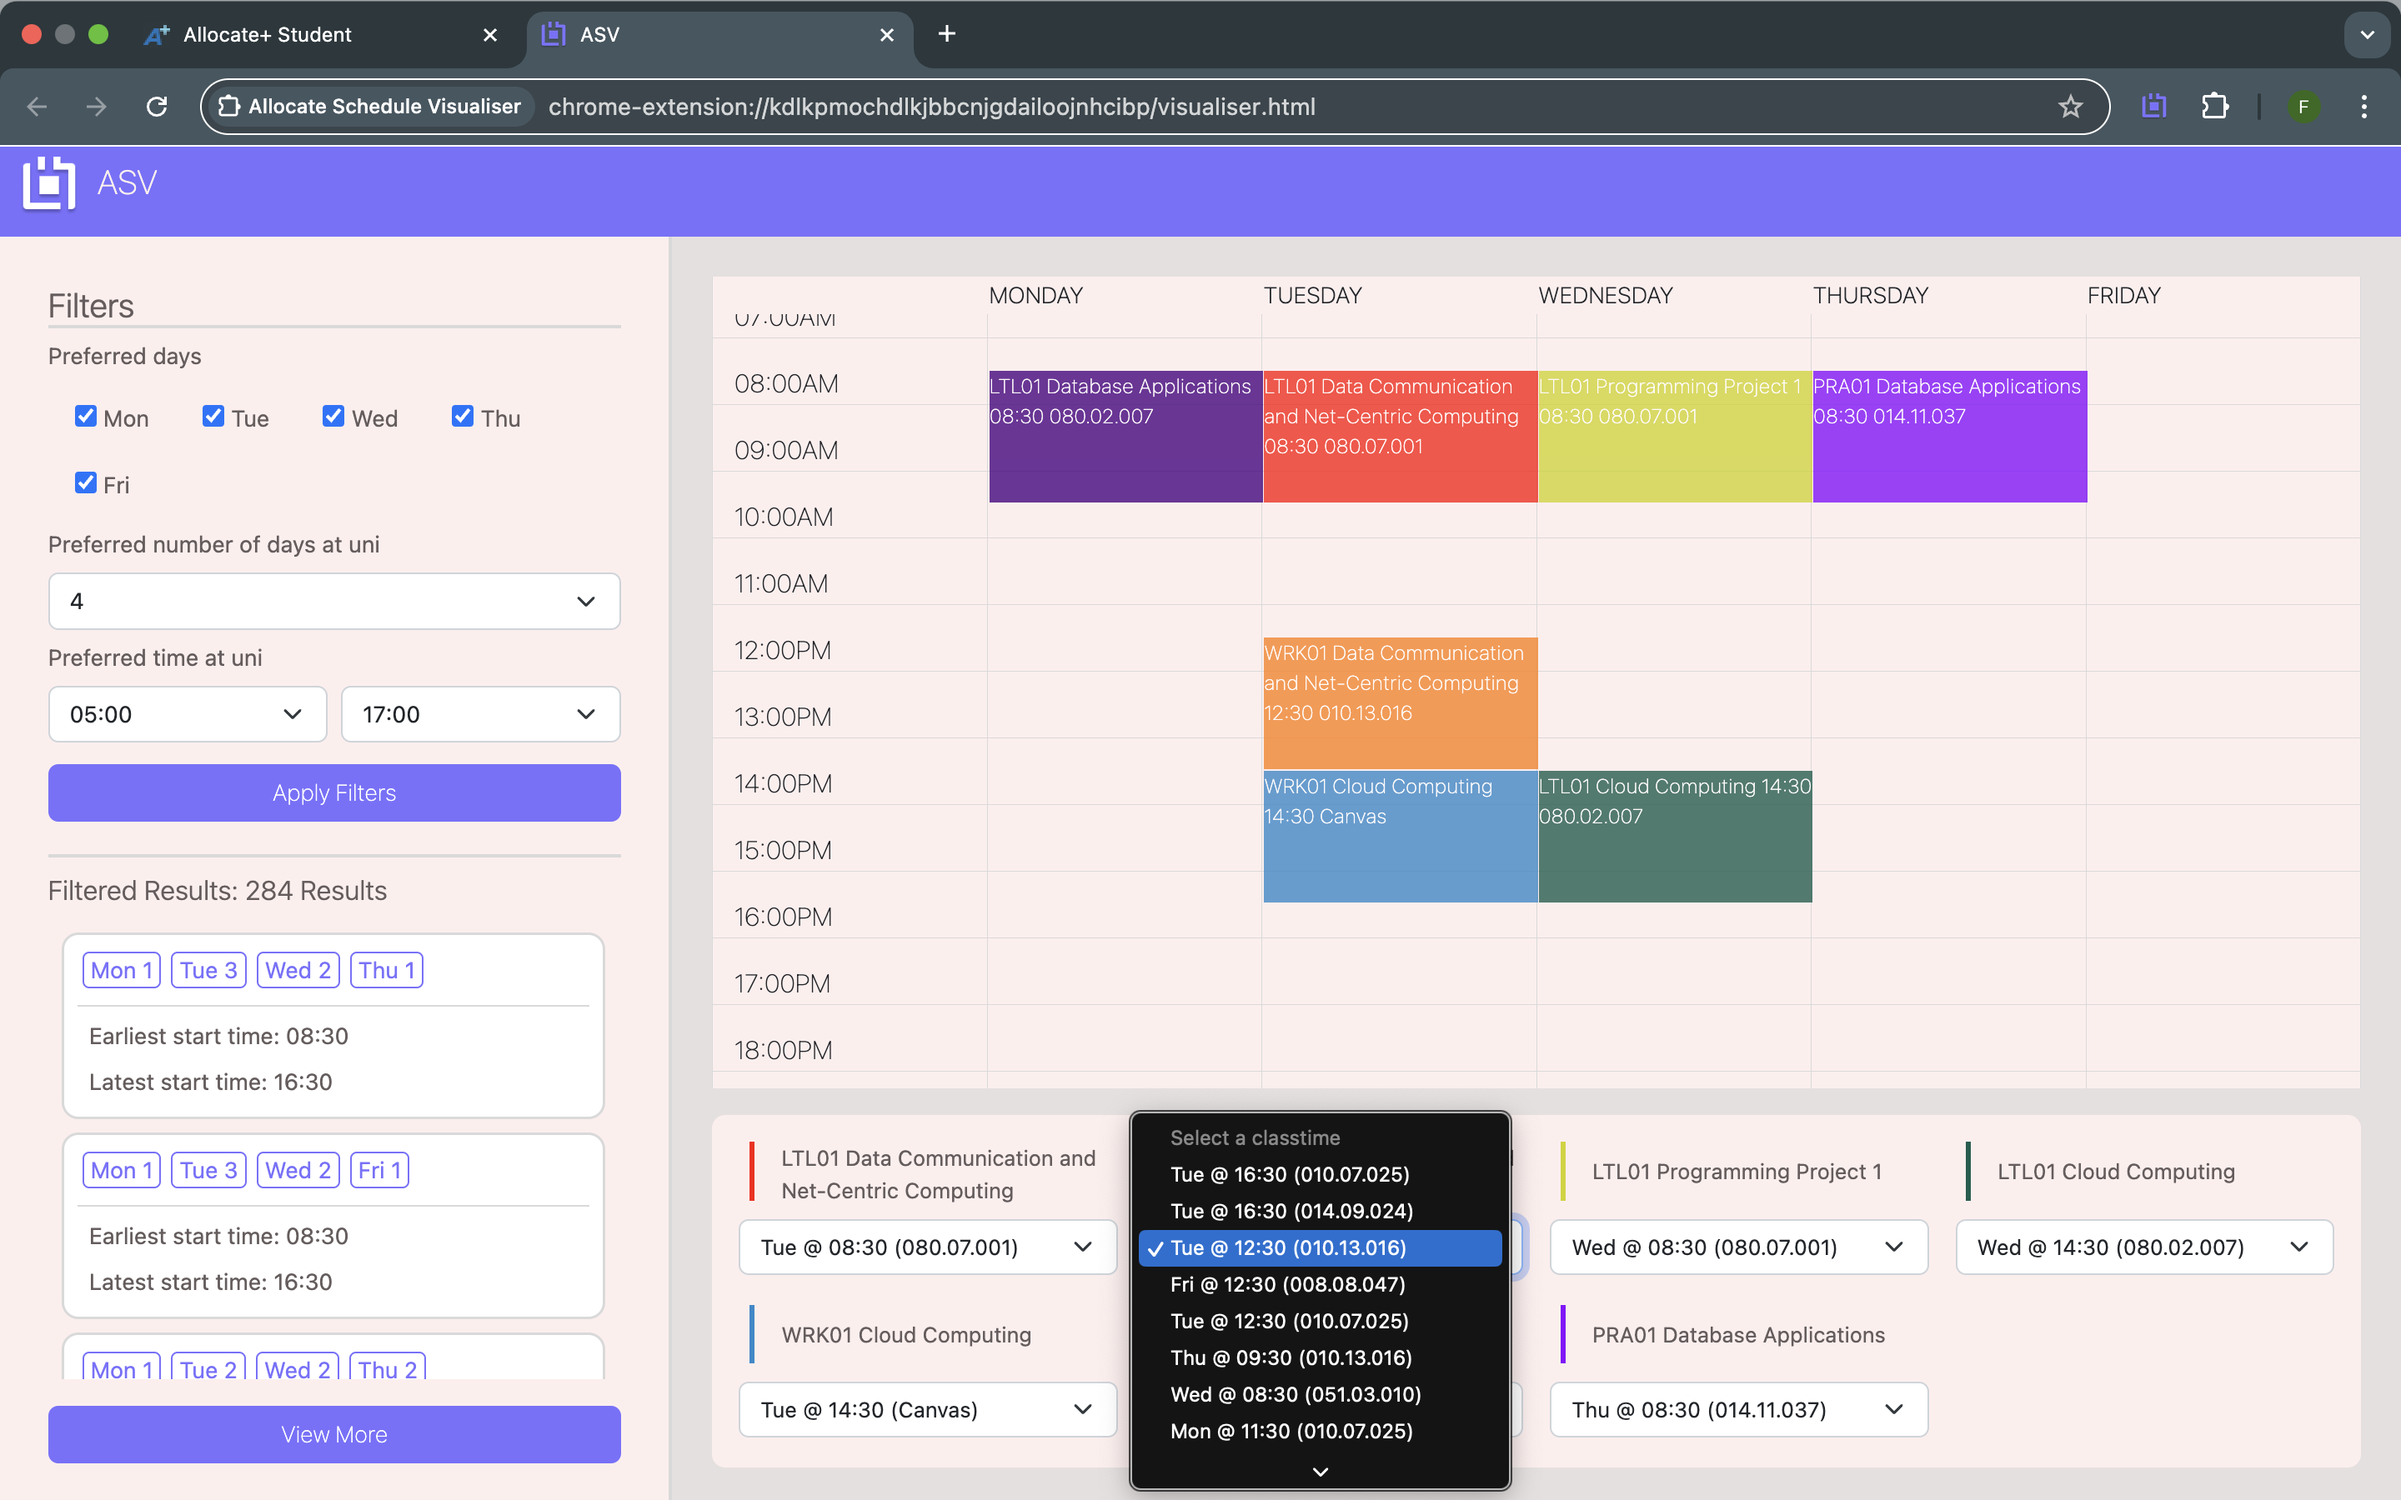
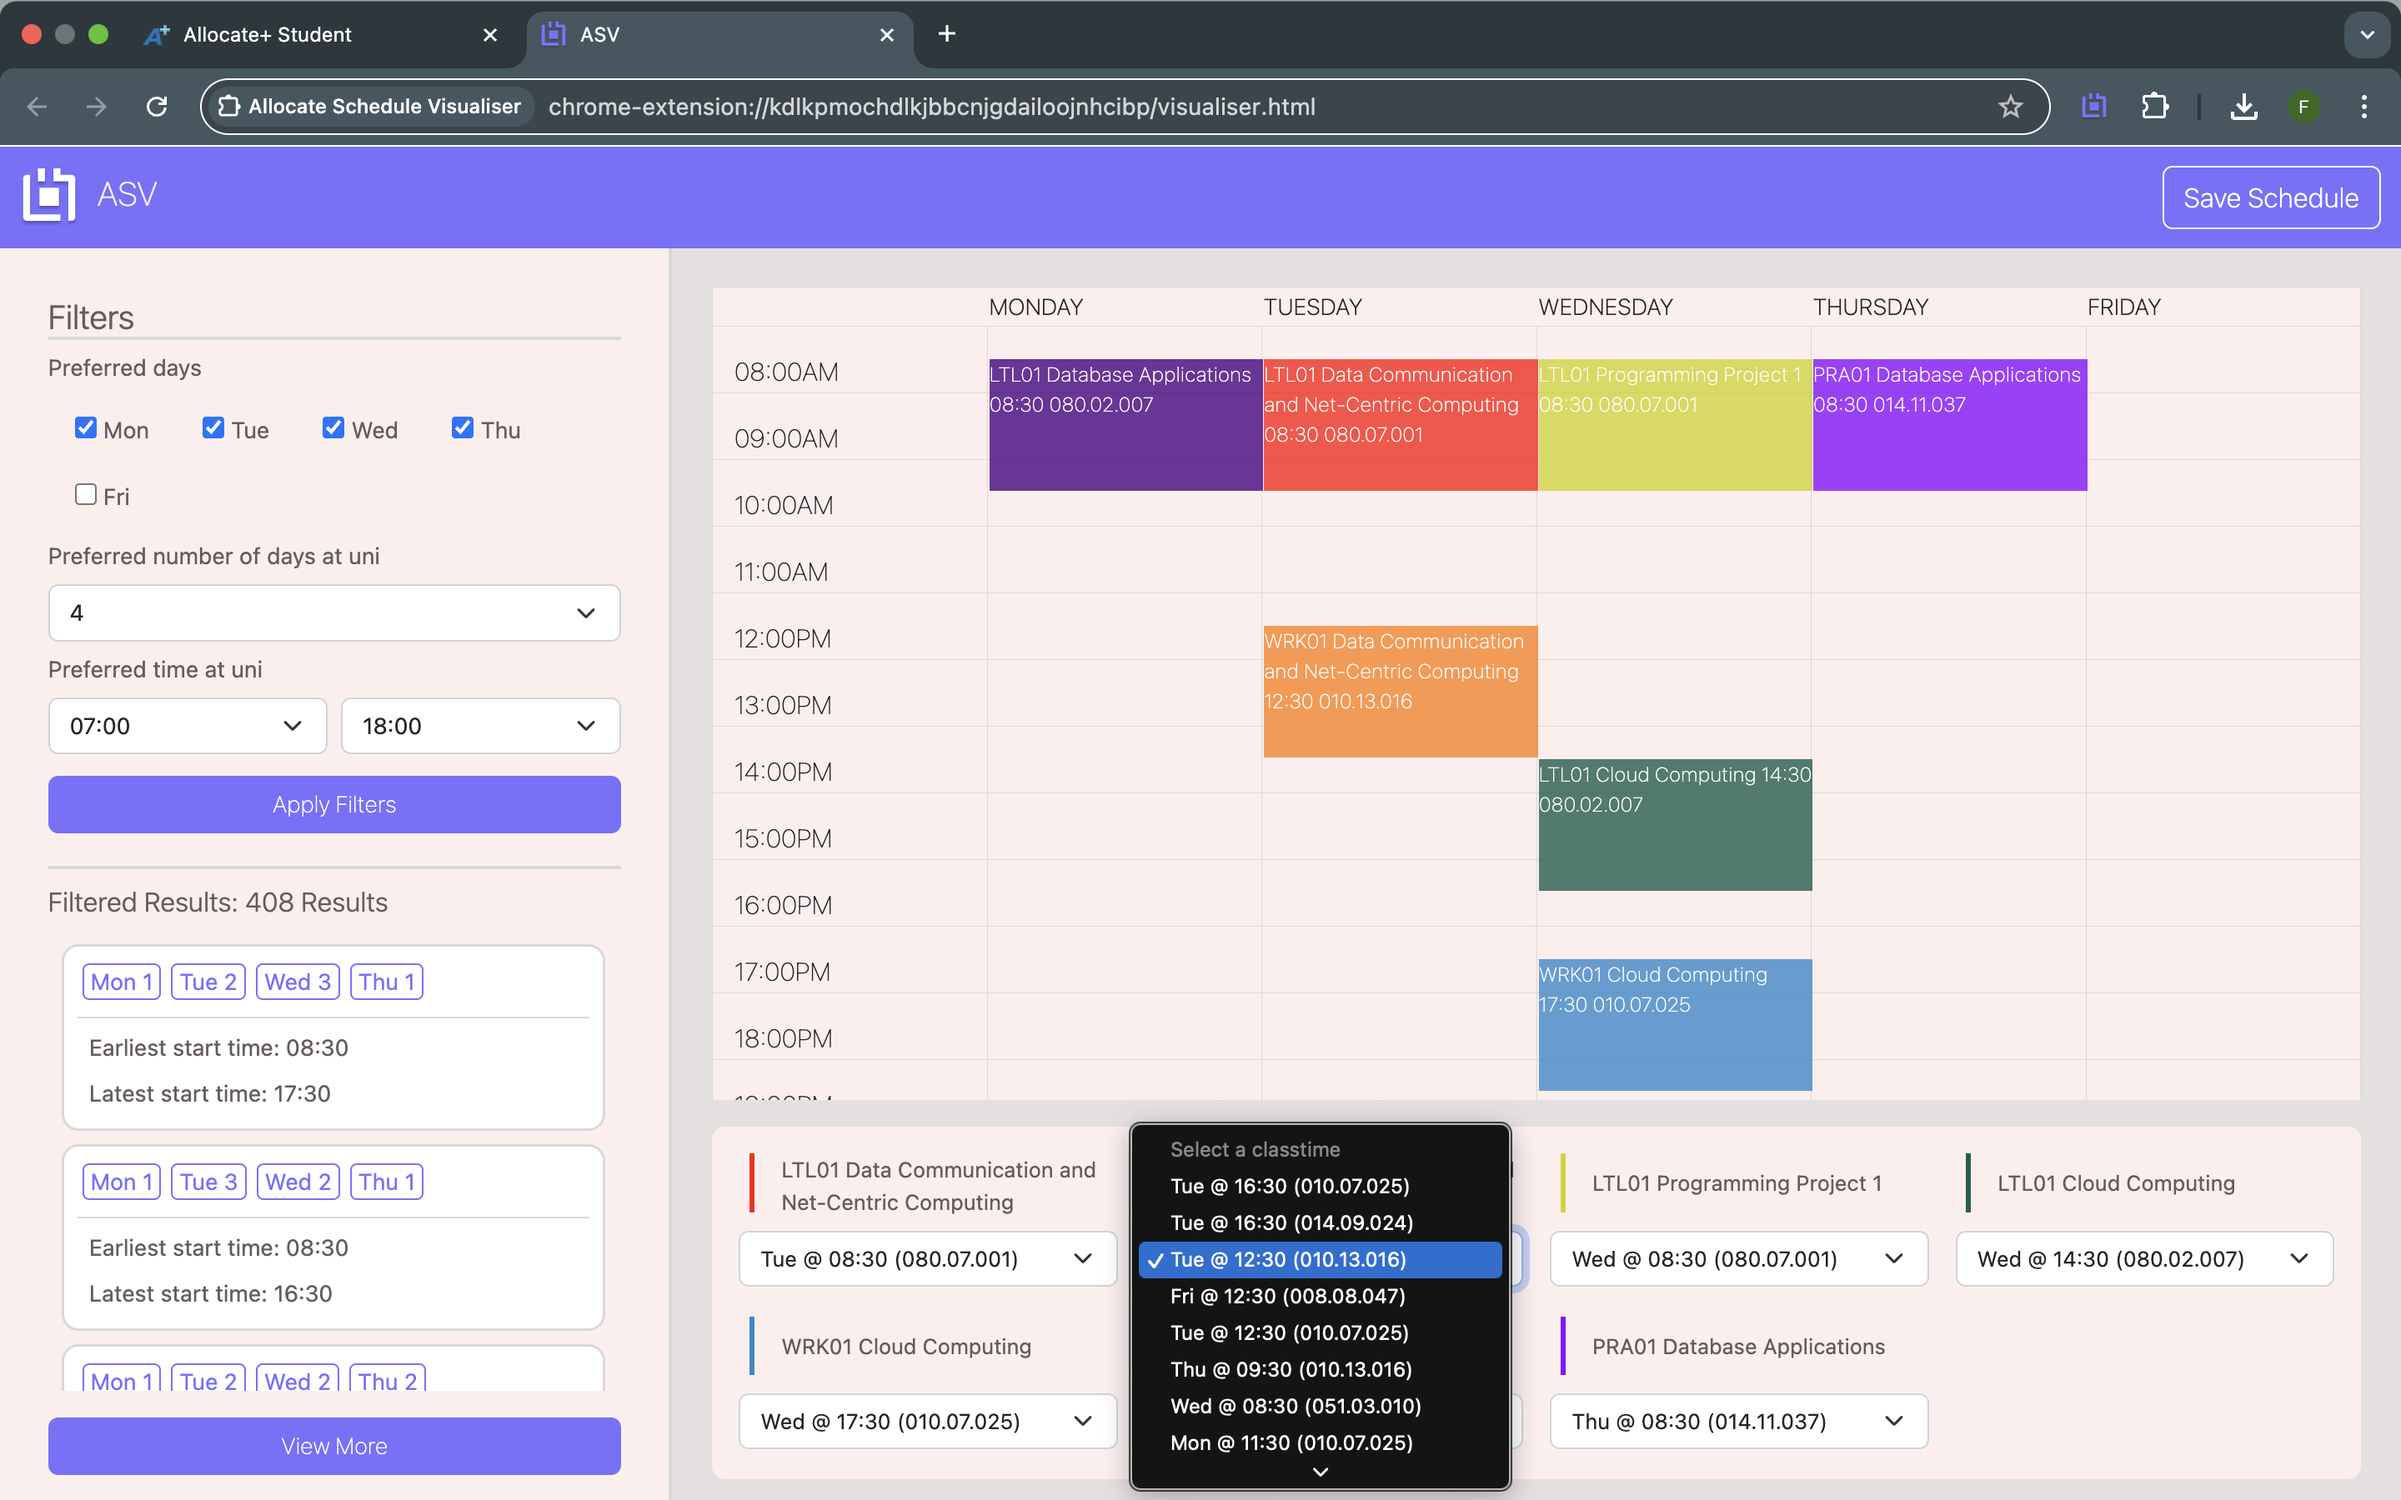
Change to readme file

diff --git a/README.md b/README.md
@@ -6,11 +6,13 @@ Allocate Schedule Visualizer is a Chrome extension that helps you easily visuali
 
 - Simple and intuitive UI to input your available class time slots.
 
-- Utilises the Puppeteer JS Library to scrape all your classes for each unit
+- Utilises the Puppeteer JS Library to scrape all your classes for each unit.
 
 - Automatically generates schedules based on the timeslots of your units.
 
 - Easily toggle between different scheduling options.
+
+- Download your schedule that you generated as a PNG.
 
 ## Installation
 
